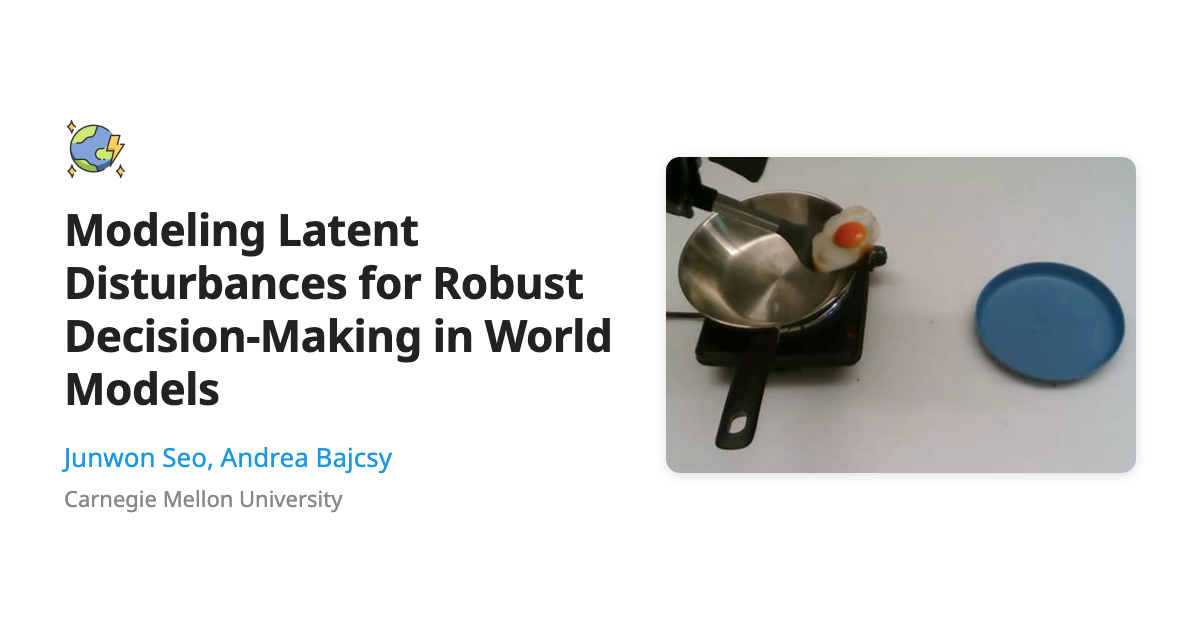
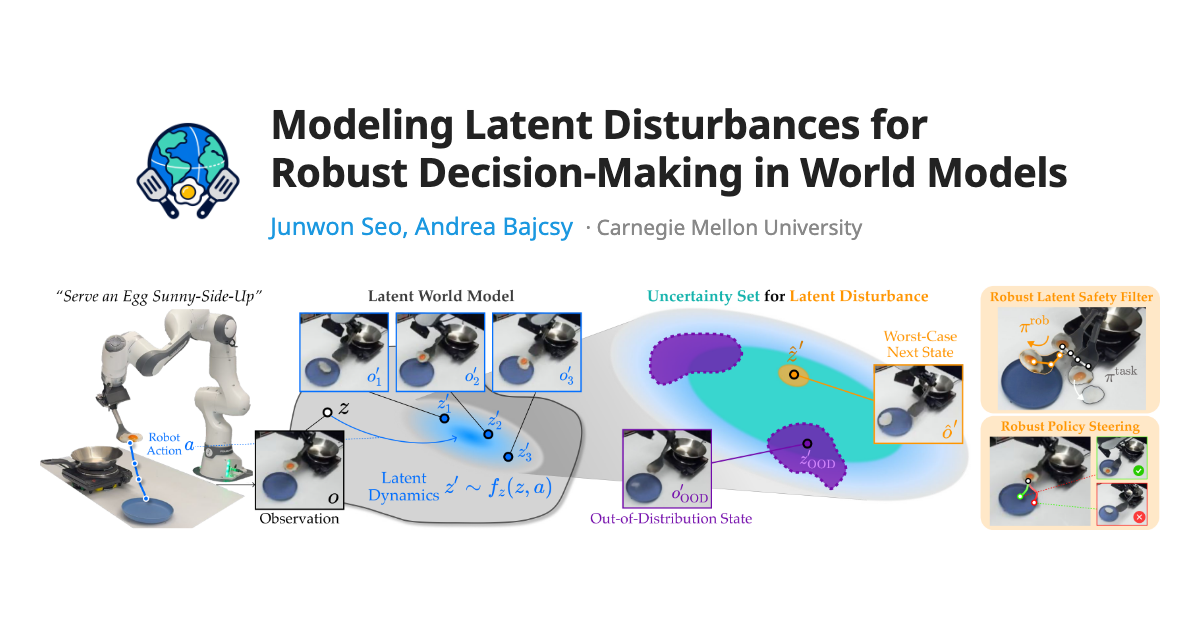
Add arXiv link, BibTeX, and updated share image

diff --git a/app/components/PaperPage.tsx b/app/components/PaperPage.tsx
@@ -19,4 +19,4 @@ function useActiveSection(){
  },[]);
  return active;
 }
-export function PaperPage(){const active=useActiveSection();return <><a className="skip-link" href="#overview">Skip to content</a><header className="site-nav"><nav aria-label="Page sections">{navItems.map(item=><a key={item.id} href={`#${item.id}`} className={active===item.id?'active':undefined} aria-current={active===item.id?'location':undefined}>{item.label}</a>)}</nav></header><main id="top"><div className="hero"><div className="hero-title"><img className="hero-logo" src={asset('/logo.png')} alt="" width={256} height={256}/><h1>{metadata.titleLines.map((line,i)=><span key={line} className="title-line">{line}{i<metadata.titleLines.length-1&&' '}</span>)}</h1></div><p className="authors">{metadata.authors.map((author,i)=><span key={author.name}>{i>0&&', '}<a href={author.href} target="_blank" rel="noopener noreferrer">{author.name}</a></span>)}</p><p className="affiliations">{metadata.affiliations}</p><div className="paper-resources" aria-label="Paper resources">{metadata.resources.map(resource=>resource.href?<a key={resource.label} href={resource.href} target="_blank" rel="noopener noreferrer">{resourceIcons[resource.label]}{resource.label} ↗</a>:<button key={resource.label} disabled title={`${resource.label} link coming soon`}>{resourceIcons[resource.label]}{resource.label} (coming soon)</button>)}</div><div className="hero-video-wrap"><video src={asset('/main_video.mp4')} poster={asset('/main_video_poster.jpg')} controls autoPlay muted loop playsInline preload="metadata" aria-label="Project overview video"/></div></div><section className="paper-summary" aria-label="Main takeaways"><p className="paper-intro">{metadata.intro}</p><div className="paper-benefits">{metadata.takeaways.map(item=><article key={item.tag}><h3>{item.tag}</h3><p dangerouslySetInnerHTML={{__html:item.text}}/></article>)}</div></section><section id="overview" className="overview"><Demo/></section><Formulation/><Method/><RuntimeSteering/><HardwareResults/><SimulationResults/><footer><a href="#top">Back to top ↑</a><p className="copyright">© {new Date().getFullYear()} Junwon Seo</p></footer></main></>;}
+export function PaperPage(){const active=useActiveSection();return <><a className="skip-link" href="#overview">Skip to content</a><header className="site-nav"><nav aria-label="Page sections">{navItems.map(item=><a key={item.id} href={`#${item.id}`} className={active===item.id?'active':undefined} aria-current={active===item.id?'location':undefined}>{item.label}</a>)}</nav></header><main id="top"><div className="hero"><div className="hero-title"><img className="hero-logo" src={asset('/logo.png')} alt="" width={256} height={256}/><h1>{metadata.titleLines.map((line,i)=><span key={line} className="title-line">{line}{i<metadata.titleLines.length-1&&' '}</span>)}</h1></div><p className="authors">{metadata.authors.map((author,i)=><span key={author.name}>{i>0&&', '}<a href={author.href} target="_blank" rel="noopener noreferrer">{author.name}</a></span>)}</p><p className="affiliations">{metadata.affiliations}</p><div className="paper-resources" aria-label="Paper resources">{metadata.resources.map(resource=>resource.href?<a key={resource.label} href={resource.href} target="_blank" rel="noopener noreferrer">{resourceIcons[resource.label]}{resource.label} ↗</a>:<button key={resource.label} disabled title={`${resource.label} link coming soon`}>{resourceIcons[resource.label]}{resource.label} (coming soon)</button>)}</div><div className="hero-video-wrap"><video src={asset('/main_video.mp4')} poster={asset('/main_video_poster.jpg')} controls autoPlay muted loop playsInline preload="metadata" aria-label="Project overview video"/></div></div><section className="paper-summary" aria-label="Main takeaways"><p className="paper-intro">{metadata.intro}</p><div className="paper-benefits">{metadata.takeaways.map(item=><article key={item.tag}><h3>{item.tag}</h3><p dangerouslySetInnerHTML={{__html:item.text}}/></article>)}</div></section><section id="overview" className="overview"><Demo/></section><Formulation/><Method/><RuntimeSteering/><HardwareResults/><SimulationResults/><section className="section" id="bibtex"><div className="section-intro"><h2>BibTeX</h2></div><pre className="bibtex">{metadata.bibtex}</pre></section><footer><a href="#top">Back to top ↑</a><p className="copyright">© {new Date().getFullYear()} Junwon Seo</p></footer></main></>;}

diff --git a/app/data/content.ts b/app/data/content.ts
@@ -10,7 +10,13 @@ export const metadata = {
  // Public URL of the deployed site (e.g. https://example.github.io/). Enables canonical, Open Graph, and sitemap URLs.
  siteUrl: 'https://junwon.me/LatentDisturbance/',
  keywords: ['world models','robust optimization','latent disturbance','latent safety filter','policy steering','robot learning','uncertainty set','conformal prediction','safe robot manipulation'],
- resources: [{label:'arXiv',href:null},{label:'Code',href:'https://github.com/CMU-IntentLab/LatentDisturbance'}] as {label:string;href:string|null}[],
+ bibtex: `@article{seo2026modeling,
+  title   = {Modeling Latent Disturbances for Robust Decision-Making in World Models},
+  author  = {Seo, Junwon and Bajcsy, Andrea},
+  journal = {arXiv preprint arXiv:2610.07599},
+  year    = {2026}
+}`,
+ resources: [{label:'arXiv',href:'https://arxiv.org/abs/2610.07599'},{label:'Code',href:'https://github.com/CMU-IntentLab/LatentDisturbance'}] as {label:string;href:string|null}[],
  affiliations: 'Carnegie Mellon University',
  intro: 'Robust decision-making in the latent space of world models, by modeling latent-space disturbances.',
  takeaways: [

diff --git a/app/globals.css b/app/globals.css
@@ -201,3 +201,4 @@ html{overflow-x:hidden}body{overflow-x:clip}
 .demo-topline .method-name,.demo-topline .acronym-letter{color:#ff9500}
 /* Main project video under the hero buttons. */
 .hero-video-wrap{max-width:720px;margin:28px auto 0;border:1px solid var(--line);box-shadow:0 2px 12px rgba(0,0,0,.08);background:#000}.hero-video-wrap video{display:block;width:100%;aspect-ratio:16/9}
+.bibtex{margin:0;background:var(--alt);border:1px solid var(--line);border-radius:10px;padding:20px 24px;font-size:.82rem;line-height:1.7;overflow-x:auto;white-space:pre;color:var(--ink)}
